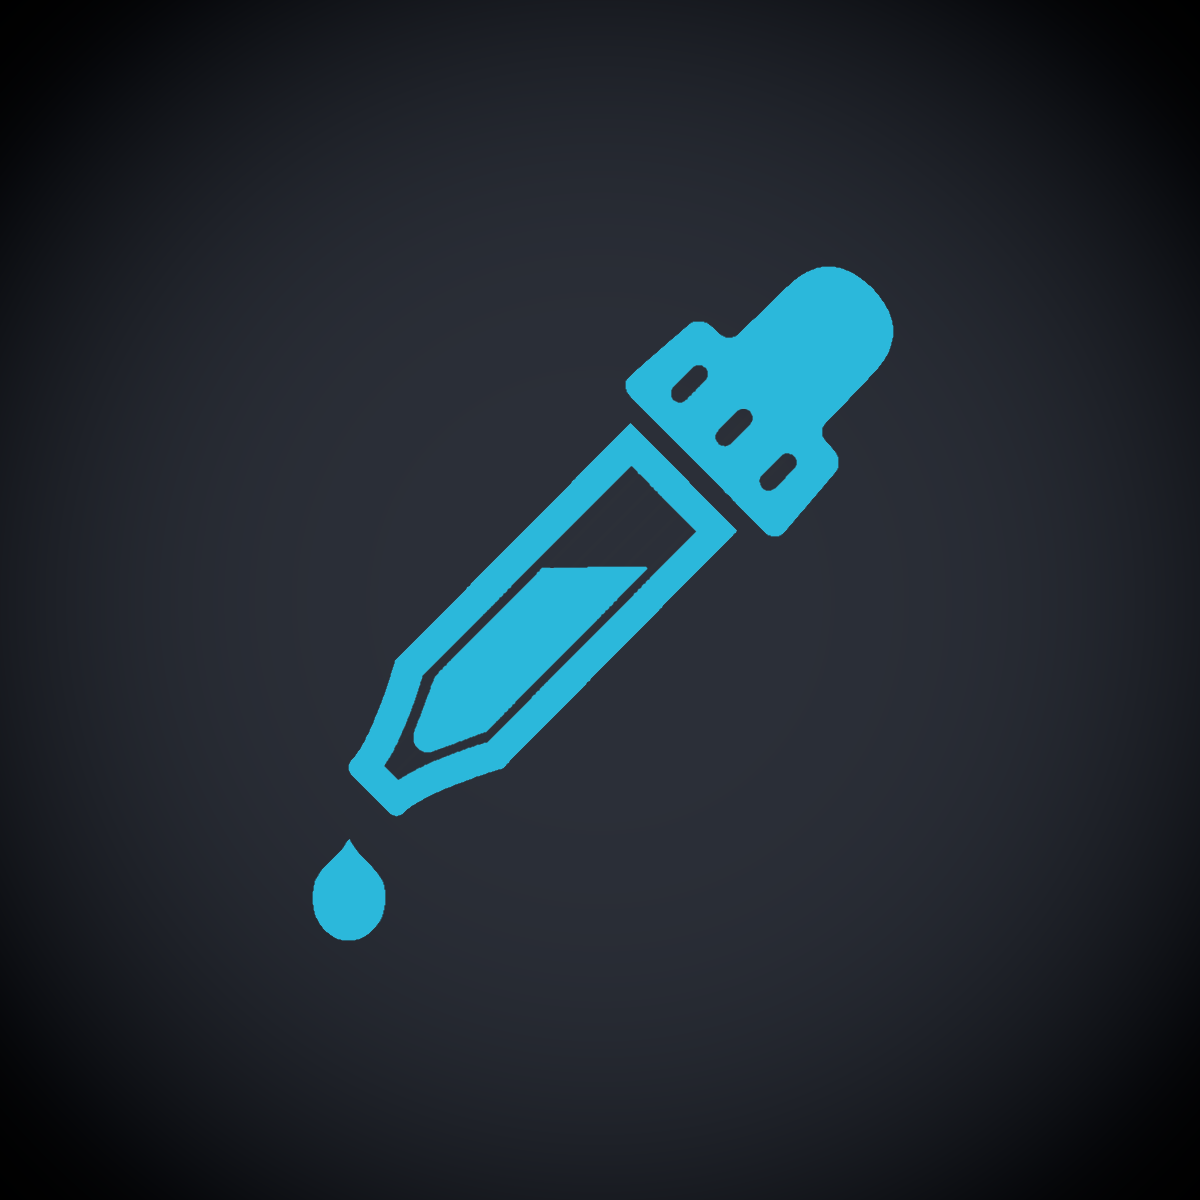
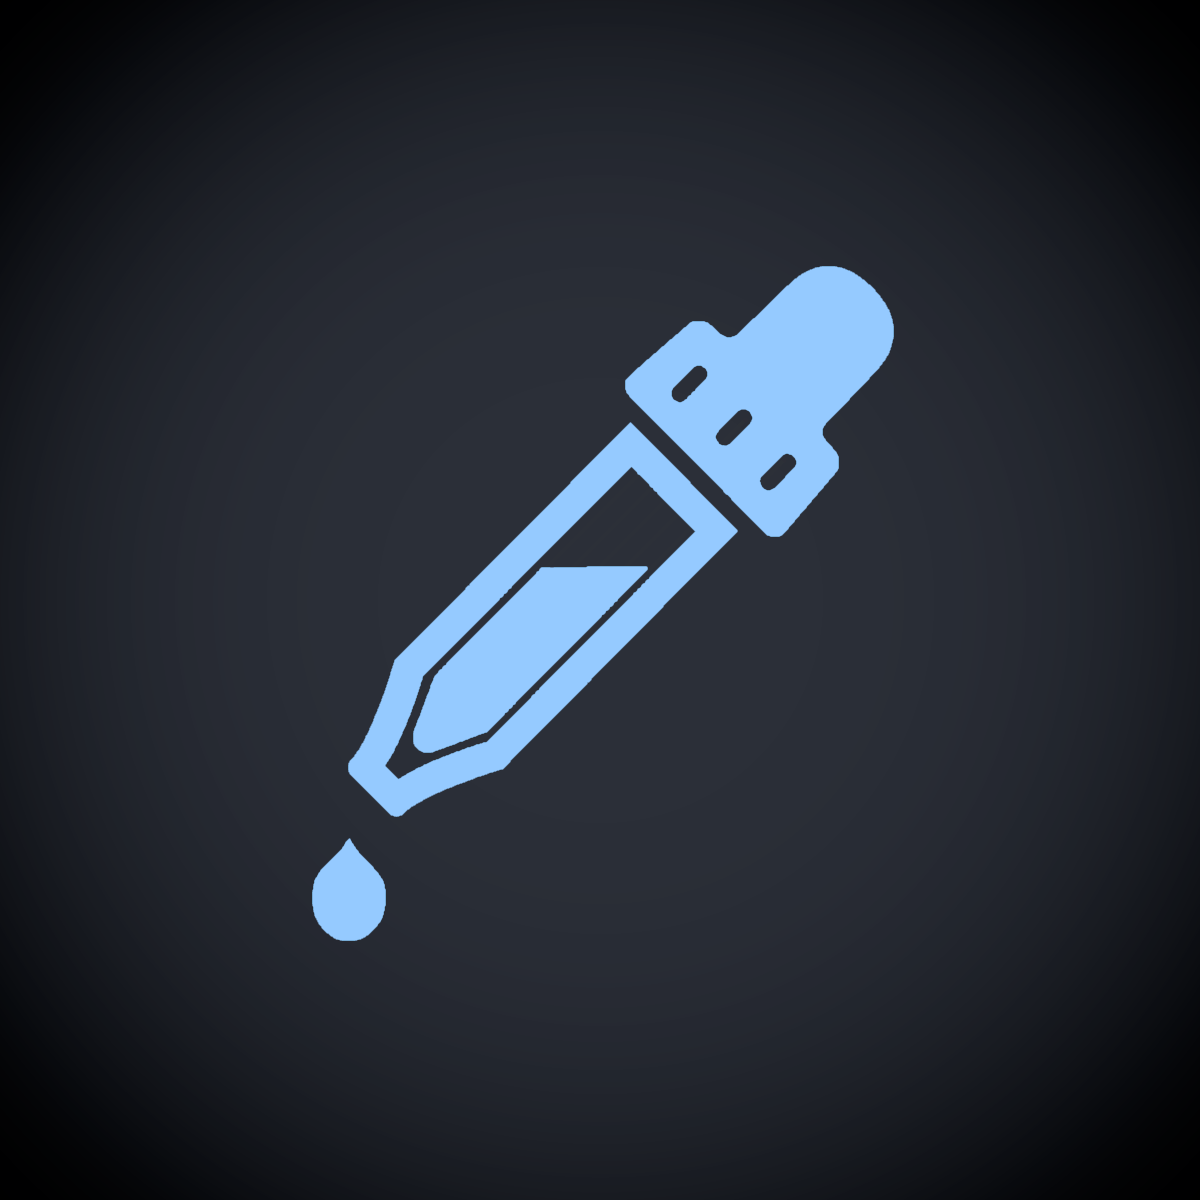
Changed the main color theme of the app from #2BB8DB to #95CAFF

Changed region(s): [[0.2467, 0.2158, 0.74, 0.8017]]

diff --git a/css/lightbox.css b/css/lightbox.css
@@ -117,39 +117,39 @@
 }
 
 .btnghost {
-	border:2px solid #2BB8DB;
+	border:2px solid #95CAFF;
 	background-color:transparent;
 	padding:15px 20px;
 	letter-spacing:3px;
 	font-size:12px;
 	text-transform:uppercase;
 	font-weight:400;
-	color:#2BB8DB;
+	color:#95CAFF;
 	display:inline-block;
 }
 
 .btnghostsmall {
-	border:2px solid #2BB8DB;
+	border:2px solid #95CAFF;
 	background-color:transparent;
 	padding:10px 12px;
 	letter-spacing:3px;
 	font-size:8px;
 	text-transform:uppercase;
 	font-weight:400;
-	color:#2BB8DB;
+	color:#95CAFF;
 	display:inline-block;
 	pointer-events: all;
 }
 
 .btnghostwhiteback {
-	border:2px solid #2BB8DB;
+	border:2px solid #95CAFF;
 	background-color:#F5F3F2;
 	padding:15px 20px;
 	letter-spacing:3px;
 	font-size:12px;
 	text-transform:uppercase;
 	font-weight:400;
-	color:#2BB8DB;
+	color:#95CAFF;
 	display:inline-block;
 	margin-left: 30px;
 	margin-right: 30px;
@@ -170,14 +170,14 @@
 }
 
 .btnghostinvisible {
-	border:2px solid #2BB8DB;
+	border:2px solid #95CAFF;
 	background-color:#F5F3F2;
 	padding:15px 20px;
 	letter-spacing:3px;
 	font-size:12px;
 	text-transform:uppercase;
 	font-weight:400;
-	color:#2BB8DB;
+	color:#95CAFF;
 	display:inline-block;
 	margin-left: 30px;
 	margin-right: 30px;
@@ -200,9 +200,9 @@
 }
 
 .btnghost:hover, .btnghostwhiteback:hover, .btnghostsmall:hover {
-	background-color:#2BB8DB;
+	background-color:#95CAFF;
 	color:#fff;
-	border:2px solid #2BB8DB;
+	border:2px solid #95CAFF;
 }
 
 .btnghostdarker:hover, .btnghostwhitebackdarker:hover{
@@ -224,7 +224,7 @@
 }
 
 .centertext_blue {
-	color:#2BB8DB;
+	color:#95CAFF;
 	font-size: 50px;
 	text-align: center;
 	position: absolute;

diff --git a/transformed.js b/transformed.js
@@ -29660,7 +29660,7 @@ var LoadingScreen = exports.LoadingScreen = function (_React$Component) {
 		value: function render() {
 			var options = {
 				strokeWidth: 5,
-				color: '#2BB8DB',
+				color: '#95CAFF',
 				trailColor: '#eee',
 				trailWidth: 2
 			};
@@ -36499,7 +36499,7 @@ var Welcome = exports.Welcome = function (_React$Component4) {
 					{ id: 'warning_div', className: 'warning animated' },
 					_react2.default.createElement(
 						'span',
-						{ className: 'animated fadeOut', style: { "fontSize": "5vw", "color": "#2BB8DB", "fontFamily": "Uni" } },
+						{ className: 'animated fadeOut', style: { "fontSize": "5vw", "color": "#95CAFF", "fontFamily": "Uni" } },
 						'HAIVE'
 					)
 				)

diff --git a/src/view/dashboard/hoverview.js b/src/view/dashboard/hoverview.js
@@ -139,7 +139,7 @@ export class Welcome extends React.Component{
 		return(
 			<div className="lightbox animated setbackgroundtotransparent welcome" id={"welcome"}>
 				<div id="warning_div" className="warning animated">
-					<span className="animated fadeOut" style={{"fontSize":"5vw", "color":"#2BB8DB", "fontFamily":"Uni"}}>HAIVE</span>
+					<span className="animated fadeOut" style={{"fontSize":"5vw", "color":"#95CAFF", "fontFamily":"Uni"}}>HAIVE</span>
 				</div>
 			</div>
 		);

diff --git a/css/mytransitions.css b/css/mytransitions.css
@@ -15,7 +15,7 @@
 	height:100%;
 	font-size: 30px;
 	background-color: #2C3039;
-	color: #2BB8DB;
+	color: #95CAFF;
 }
 
 .circleprogressbar{
@@ -265,7 +265,7 @@
 
 .protocols{
 	margin-left: 2%;
-/*	color:#2BB8DB;*/
+/*	color:#95CAFF;*/
 	font-size: 50px;
 	text-align: left;
 }

diff --git a/src/view/loadingscreenview.js b/src/view/loadingscreenview.js
@@ -42,7 +42,7 @@ export class LoadingScreen extends React.Component{
 	render() {
         const options = {
             strokeWidth: 5,
-            color: '#2BB8DB',
+            color: '#95CAFF',
             trailColor: '#eee',
             trailWidth: 2,
         };

diff --git a/css/app.css b/css/app.css
@@ -2813,7 +2813,7 @@ fieldset[disabled] .btn-gplus.active {
 }
 
 .haivestore h1{
-	color:#2BB8DB;
+	color:#95CAFF;
 	font-size: 50px;
 	margin-bottom: 2%;
 }
